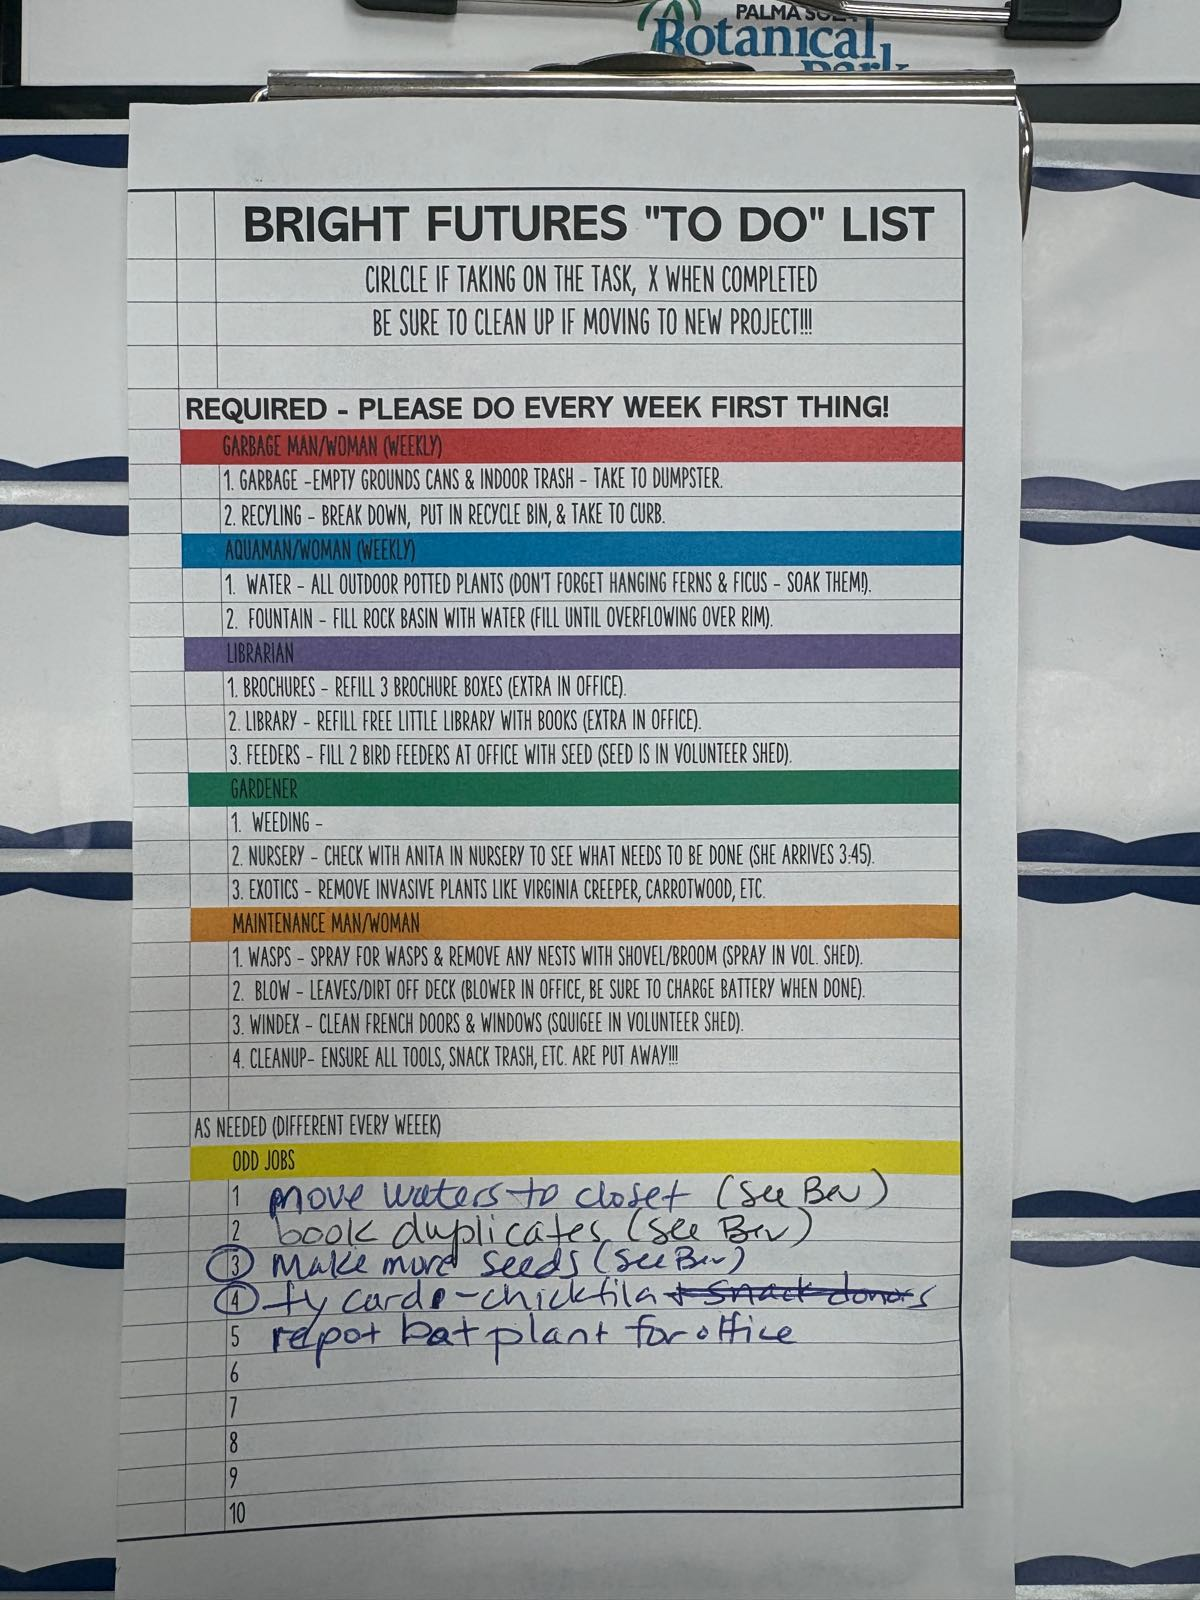
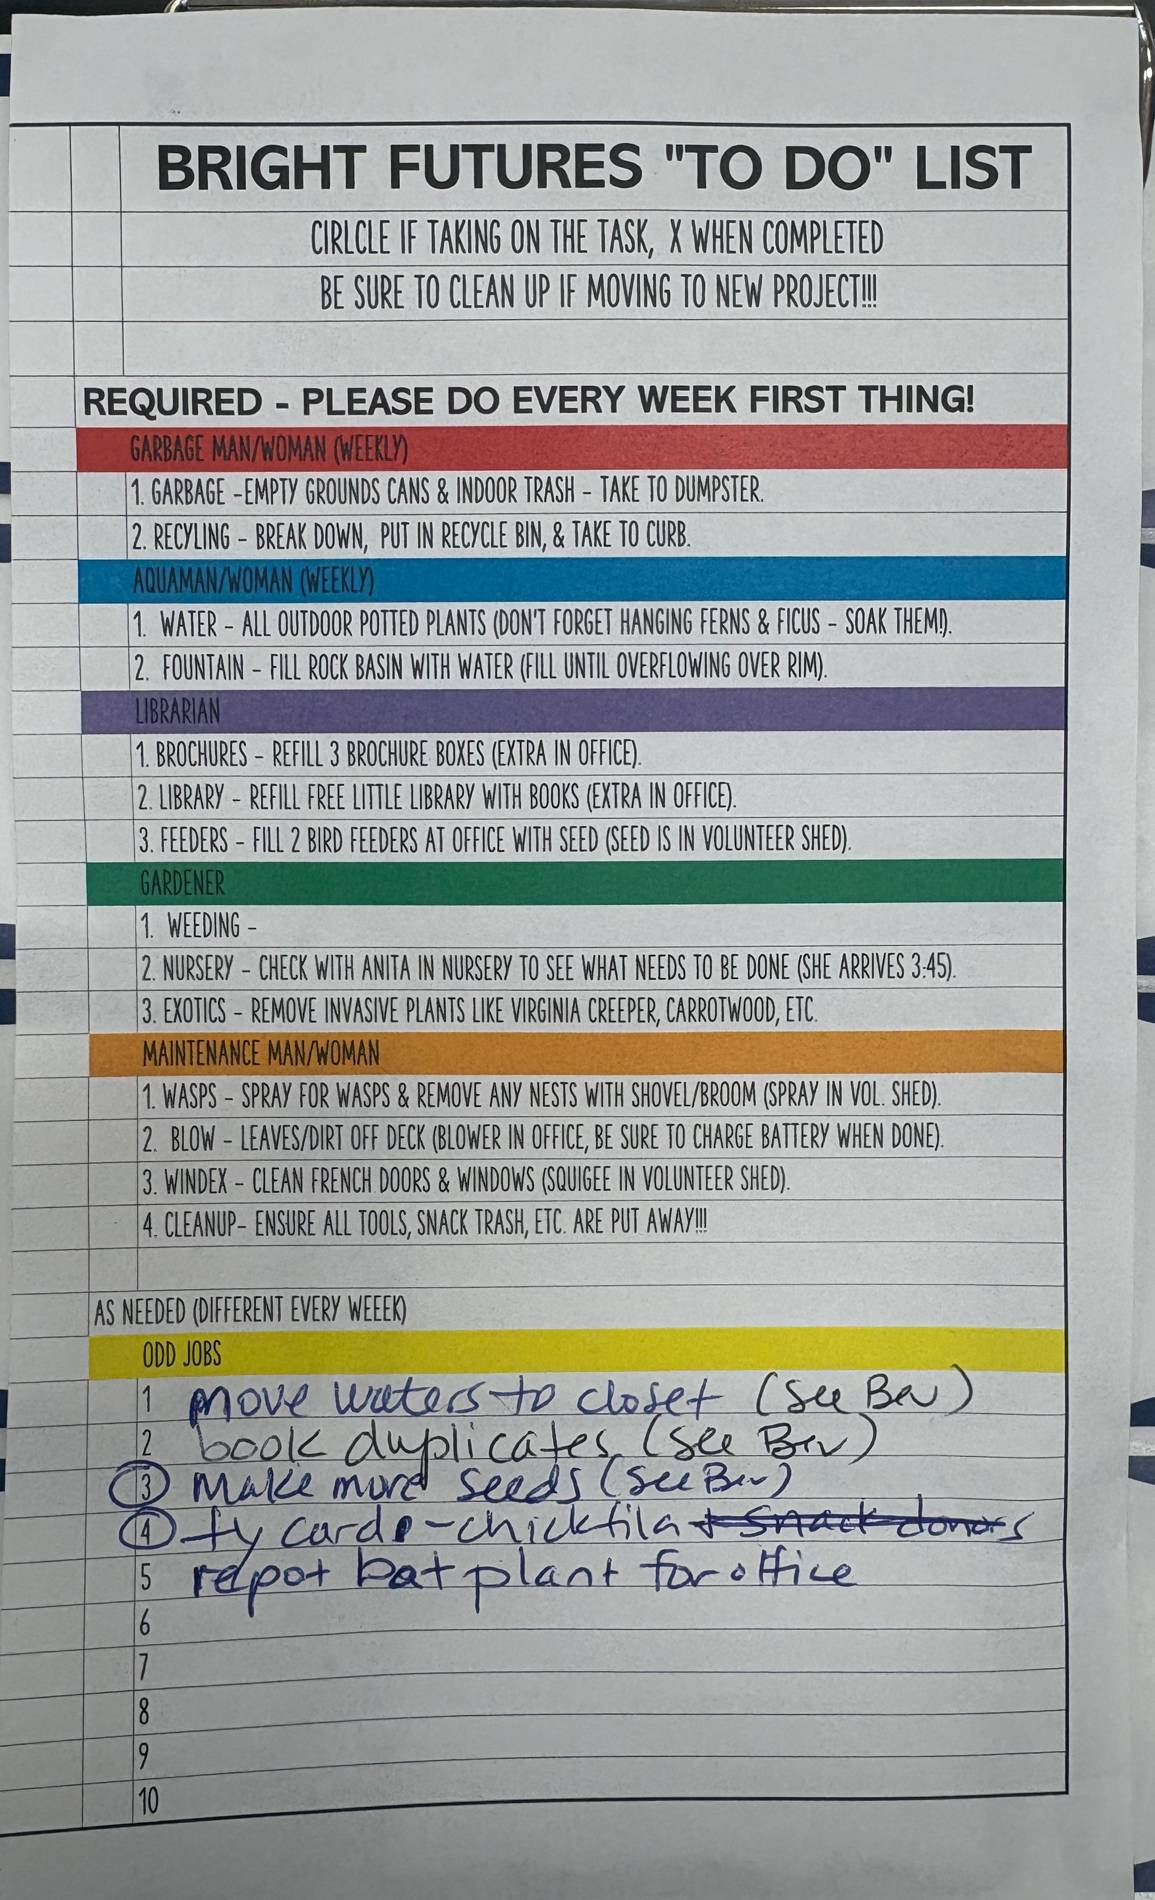
bright futures

diff --git a/screens/screen-brightfutures.html b/screens/screen-brightfutures.html
@@ -9,8 +9,8 @@
 <!-- ?v= is a cache-buster. GitHub Pages and the kiosk browser cache CSS
      for 10 minutes; bump it whenever the stylesheet changes or the TV
      keeps showing the old look after a pull. -->
-<link rel="stylesheet" href="events/event-deck.css?v=20260925n">
-<link rel="stylesheet" href="events/event-brightfutures.css?v=20260925n">
+<link rel="stylesheet" href="events/event-deck.css?v=20260925o">
+<link rel="stylesheet" href="events/event-brightfutures.css?v=20260925o">
 <!-- Standalone deck for the Wednesday Bright Futures high-school session.
      Randy, 2026-09-25: "volunteers would refer to adults so the name of
      this html is wrong imo. We call this crew Bright Futures" — this is
@@ -274,6 +274,9 @@
     if(FOCUS_MEM[key]) return FOCUS_MEM[key];
     var cached = focusCache()[key];
     if(cached) return (FOCUS_MEM[key] = Promise.resolve(cached));
+    /* only the open-data bucket allows pixel reads; static.inaturalist.org
+       refuses, so don't ask (the photo just stays centred) */
+    if(url.indexOf('inaturalist-open-data') < 0) return (FOCUS_MEM[key] = Promise.resolve(null));
     FOCUS_MEM[key] = new Promise(function(res){
       var img = new Image(); img.crossOrigin = 'anonymous';
       img.onload = function(){
@@ -488,7 +491,10 @@
       return { items: collageFor(urls),
                credit: window.PSBPPhotos.creditPlate({ by: by, license: members[0].photos[0].license }) };
     });
-    return { id:'month-'+part, seconds: SECONDS*(0.5 + 0.32*quilt.length), quilt: quilt, html:
+    /* long enough that the last group always lands (render() holds each
+       group at least 3.2 s), whatever the base dwell is set to */
+    var secs = Math.max(SECONDS*(0.5 + 0.32*quilt.length), (1.4 + 3.4*quilt.length + 1)/SPEED);
+    return { id:'month-'+part, seconds: secs, quilt: quilt, html:
         '<div class="copy"><div class="label">This month</div>'
       + '<h2>Here’s how many iNat pics we’ve taken this month:</h2>'
       + countHtml(PULSE.monthPhotos, 'photos', 'hero')
@@ -586,7 +592,7 @@
     if(!tasksData) return null;
     var copy = '<div class="copy"><div class="label">The weekly tasks</div>'
       + '<h2>Go own something.</h2>'
-      + '<div class="body">It’s on the clipboard in the office. Circle a task to own it. X it when it’s done. Tell staff you’ve got it.</div>'
+      + '<div class="body">This one. It’s on the clipboard in the office. Circle a task to own it. X it when it’s done. Tell staff you’ve got it.</div>'
       + (tasksData.note ? '<div class="body"><b>'+esc(tasksData.note)+'</b></div>' : '')
       + '</div>';
     if(tasksData.sheetOk){
@@ -685,36 +691,9 @@
     try{ localStorage.setItem(NICE_KEY, JSON.stringify(last)); }catch(e){}
   }
 
-  /* Randy, 2026-09-25, on the old two-photo version: "oddly composed...
-     hideously boring." / "use screen on right side with irregular size
-     blocks and show more than 2." Four real photos in a mosaic (one big,
-     three smaller — see .mosaic), each from a DIFFERENT student so it
-     reads as "the crew," not one kid's highlight reel. */
-  function diversePhotos(pool, n){
-    var byPhotog = {};
-    pool.forEach(function(p){ (byPhotog[p.photographer] = byPhotog[p.photographer] || []).push(p); });
-    var keys = Object.keys(byPhotog).sort(function(){ return Math.random()-0.5; });
-    var out = [];
-    for(var i=0; i<keys.length && out.length<n; i++){
-      var mine2 = byPhotog[keys[i]];
-      out.push(mine2[Math.floor(Math.random()*mine2.length)]);
-    }
-    return out;
-  }
-  function slideHero(mine){
-    var pool = mine.filter(function(p){ return p.hero; });
-    var pics = diversePhotos(pool.length >= 4 ? pool : mine, 4);
-    if(pics.length < 3) return null;
-    var tiles = pics.map(function(p,i){
-      return '<figure class="m'+i+'"><img src="'+p.photo_url+'" alt="">'
-        + '<figcaption>'+esc((p.photographer_name||'').split(' ')[0]||'')+'</figcaption></figure>';
-    }).join('');
-    return { id:'hero', seconds: SECONDS*2, html:
-        '<div class="copy"><div class="label">The hero shot</div>'
-      + '<h2>And there’s not just one way to do it.</h2>'
-      + '<div class="body">One thing in the frame. Nothing in the way. Get close so it fills the shot, or step back so you get the whole shape. Both work.</div></div>'
-      + '<div class="mosaic">'+tiles+'</div>' };
-  }
+  /* The four-photo mosaic ("And there's not just one way to do it")
+     retired 2026-09-25 — Randy: "not much meat here. Drop it?" The
+     annotated hero shot, the example cards and the detail shot cover it. */
 
   /* Randy, 2026-09-25: "use some of this" — the September photo-awards
      deck on his Desktop. Its five judging questions, in his own words,
@@ -806,10 +785,15 @@
   ];
   function slideIdDetail(mine){
     var byId = {}; mine.forEach(function(p){ byId[p.photo_id] = p; });
-    var exs = ID_EXAMPLES.filter(function(e){ return byId[e.id]; });
-    if(exs.length < 2) return null;
-    exs = exs.sort(function(){ return Math.random()-0.5; }).slice(0, 3);
-    var opener = randomPhoto(mine.filter(function(x){ return x.hero; })) || randomPhoto(mine);
+    var all = ID_EXAMPLES.filter(function(e){ return byId[e.id]; });
+    if(all.length < 2) return null;
+    var exs = all.slice().sort(function(){ return Math.random()-0.5; }).slice(0, 3);
+    /* Randy, 2026-09-25: the intro ran over "a perfect hero image of
+       bridal veil tree with bridge and galleria and pond. It was NOT a
+       detail photo." So the intro's backdrop is the one detail example
+       left out of this showing — a close-up under words about close-ups. */
+    var left = all.filter(function(e){ return exs.indexOf(e) < 0; })[0] || exs[0];
+    var opener = byId[left.id];
     var steps = [{ seconds: SECONDS*0.5, copy:
         '<div class="label">The detail shot</div>'
       + '<h2>Ok, here’s the other kind of shot.</h2>'
@@ -958,8 +942,8 @@
     return { id:'website', seconds: SECONDS*1.9, shout:true, bg: p && p.photo_url, credit: p && creditText(p), html:
         '<div class="copy"><div class="label">The website</div>'
       + '<div class="shout-line">We need <em>hero</em> photos.</div>'
-      + '<div class="body">The hero is the lead photo on the species page and the one on the sign. It has to look like the plant.</div>'
-      + '<div class="body">And if it’s so darn gorgeous we can’t NOT use it — even better.</div>'
+      + '<div class="body">The hero leads the species page and goes on the sign. The plant, unmistakable, sharp, with a bit of the park behind it.</div>'
+      + '<div class="body">Or so darn gorgeous we can’t NOT use it.</div>'
       + '<div class="body">Shoot a better one. It goes up with your name under it.</div></div>' };
   }
 
@@ -1484,7 +1468,7 @@
     /* Reviewer: "four photography-instruction slides is a lot. I'd
        rotate only one or two of those in any given session." Two of the
        general ones, plus one or two of Randy's example cards. */
-    var coachingAll = [slideHero(mine), slideWhyMultiple(mine), slideWhyAllYear(mine)].filter(Boolean);
+    var coachingAll = [slideWhyMultiple(mine), slideWhyAllYear(mine)].filter(Boolean);
     var closerOf = dealt(HERO_CLOSERS);
     var examplesAll = EXAMPLES.map(function(ex, i){ return slideExample(mine, ex, closerOf(i)); }).filter(Boolean);
     /* ?only= proofing wants every format reachable, so skip the sampling then */

diff --git a/screens/events/event-brightfutures.css b/screens/events/event-brightfutures.css
@@ -189,25 +189,7 @@
 .task .job{font-size:clamp(1.5rem,3.5vmin,2.8rem);color:var(--paper);font-weight:400;line-height:1.35}
 .task-list + .body{margin-top:5vmin}
 
-/* Sized to actually fill a widescreen TV, not sit as two thumbnails in a
-   sea of empty ground — Randy, 2026-09-25: "empty space." */
-/* Randy, 2026-09-25, on the old side-by-side pair: "oddly composed...
-   hideously boring." / "use screen on right side with irregular size
-   blocks and show more than 2." A fixed-size block on the right (sibling
-   to .copy, same pattern as event-deck.css's .poster/.photo-col), four
-   tiles of deliberately different sizes rather than a tidy even grid. */
-.mosaic{flex:0 0 auto;width:52vmin;height:70vmin;display:grid;gap:1.4vmin;
-  grid-template-columns:1.4fr 1fr;grid-template-rows:1fr 1fr .8fr}
-.mosaic figure{margin:0;position:relative;border-radius:1.4vmin;overflow:hidden;
-  box-shadow:0 .8vmin 3.2vmin rgba(0,0,0,.5)}
-.mosaic img{display:block;width:100%;height:100%;object-fit:cover}
-.mosaic .m0{grid-column:1;grid-row:1 / span 2}
-.mosaic .m1{grid-column:2;grid-row:1}
-.mosaic .m2{grid-column:2;grid-row:2}
-.mosaic .m3{grid-column:1 / span 2;grid-row:3}
-.mosaic figcaption{position:absolute;left:0;right:0;bottom:0;padding:1vmin 1.4vmin;
-  background:linear-gradient(transparent,rgba(0,0,0,.78));
-  font-size:1.4vmin;font-weight:700;letter-spacing:.08em;text-transform:uppercase;color:var(--paper)}
+/* (the four-photo .mosaic slide was retired 2026-09-25 — "not much meat here") */
 
 /* Borrowed from Randy's photo-awards deck (Desktop, Sept 2026): the
    framed photo-beside-text card, and the numbered rubric rows. Two more
@@ -245,9 +227,13 @@
 
 /* The weekly-tasks slide: copy left, a photo of the week's sheet right —
    Randy: "split paned." Portrait or landscape, it fits inside the band. */
-.sheet{flex:0 0 auto;width:50vmin;max-height:70vmin;display:flex;align-items:flex-start;justify-content:flex-end}
-.sheet img{max-width:100%;max-height:70vmin;display:block;border-radius:.8vmin;background:#fff;
-  box-shadow:0 1.4vmin 4.6vmin rgba(0,0,0,.6)}
+/* Randy: "much bigger... zoomed in to cut out distractions... center of
+   right hand frame. Really lean into it being a real thing they should
+   look for." The photo is cropped to the paper; here it takes the full
+   height of the slide, centred in the right half. */
+.sheet{flex:0 0 48%;height:80vmin;display:flex;align-items:flex-start;justify-content:center}
+.sheet img{max-width:100%;max-height:80vmin;display:block;border-radius:.6vmin;background:#fff;
+  box-shadow:0 1.6vmin 5vmin rgba(0,0,0,.65)}
 .rubric{display:grid;gap:1vmin;margin-top:2.4vmin;max-width:82vmin}
 .rub{display:grid;grid-template-columns:4.4vmin 1fr;gap:1.6vmin;align-items:start;
   background:rgba(255,255,255,.05);border:1px solid var(--rule);border-radius:.6vmin;padding:1.1vmin 1.5vmin}
@@ -273,8 +259,8 @@
 .slide.on .copy.slow > *:nth-child(2){animation-delay:1.4s}
 .slide.on .copy.slow > *:nth-child(3){animation-delay:2.5s}
 .slide.on .copy.slow > *:nth-child(n+4){animation-delay:3.7s}
-.slide .mosaic,.slide .card-photo,.slide .sheet{opacity:0;transform:translateX(1.5vmin)}
-.slide.on .mosaic,.slide.on .card-photo,.slide.on .sheet{animation:rise .7s ease-out .7s forwards}
+.slide .card-photo,.slide .sheet{opacity:0;transform:translateX(1.5vmin)}
+.slide.on .card-photo,.slide.on .sheet{animation:rise .7s ease-out .7s forwards}
 .slide .task,.slide .rub{opacity:0;transform:translateY(.8vmin)}
 .slide.on .task,.slide.on .rub{animation:rise .5s ease-out forwards}
 .slide.on .task:nth-child(1),.slide.on .rub:nth-child(1){animation-delay:.9s}
@@ -310,7 +296,7 @@
   to{opacity:0;transform:translate(-50%,-50%) rotate(var(--rot)) scale(.8)}}
 
 @media (prefers-reduced-motion:reduce){
-  .slide .copy > *,.slide .mosaic,.slide .card-photo,.slide .sheet,.slide .task,.slide .rub{opacity:1;transform:none;animation:none}
+  .slide .copy > *,.slide .card-photo,.slide .sheet,.slide .task,.slide .rub{opacity:1;transform:none;animation:none}
   .quilt .tile{animation:none;opacity:1;transform:translate(-50%,-50%) rotate(var(--rot))}
   .quilt .tile.out{opacity:0}
   .callout,.idstage .dot,.obs-row{animation:none;opacity:1;transform:none}
